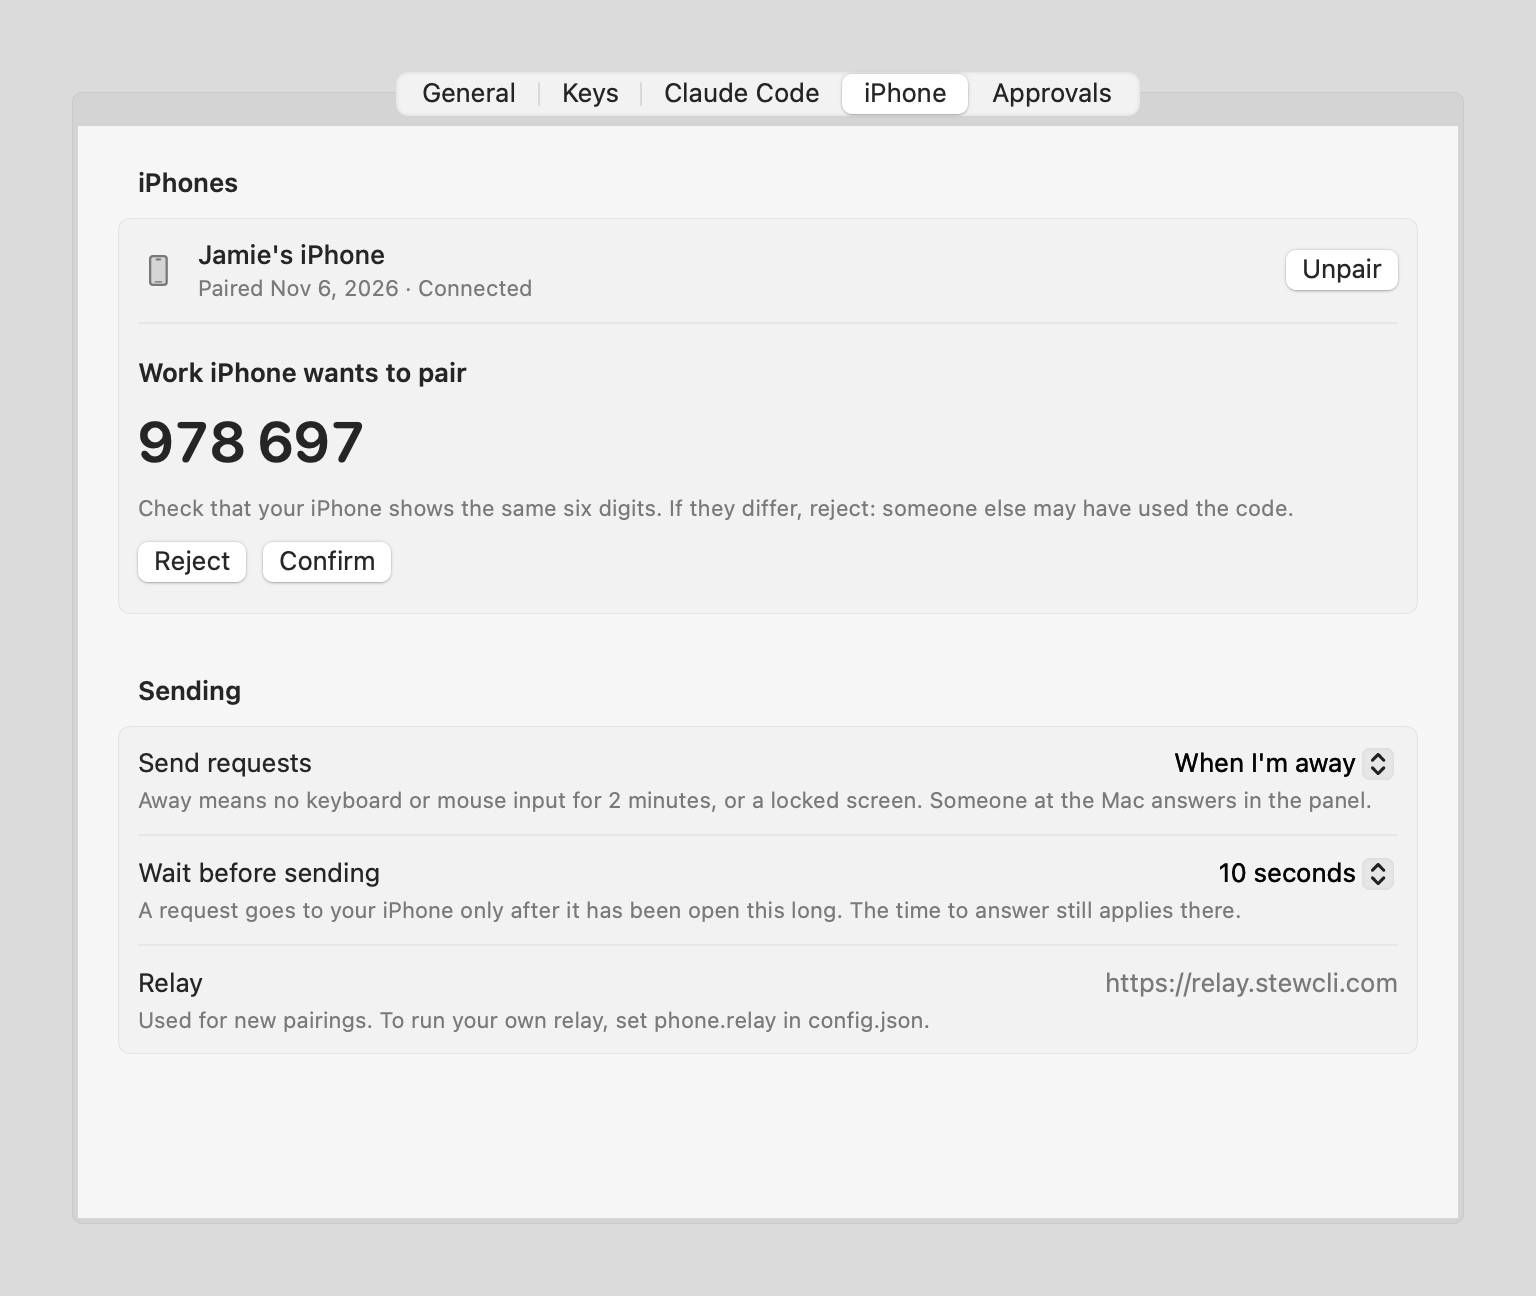
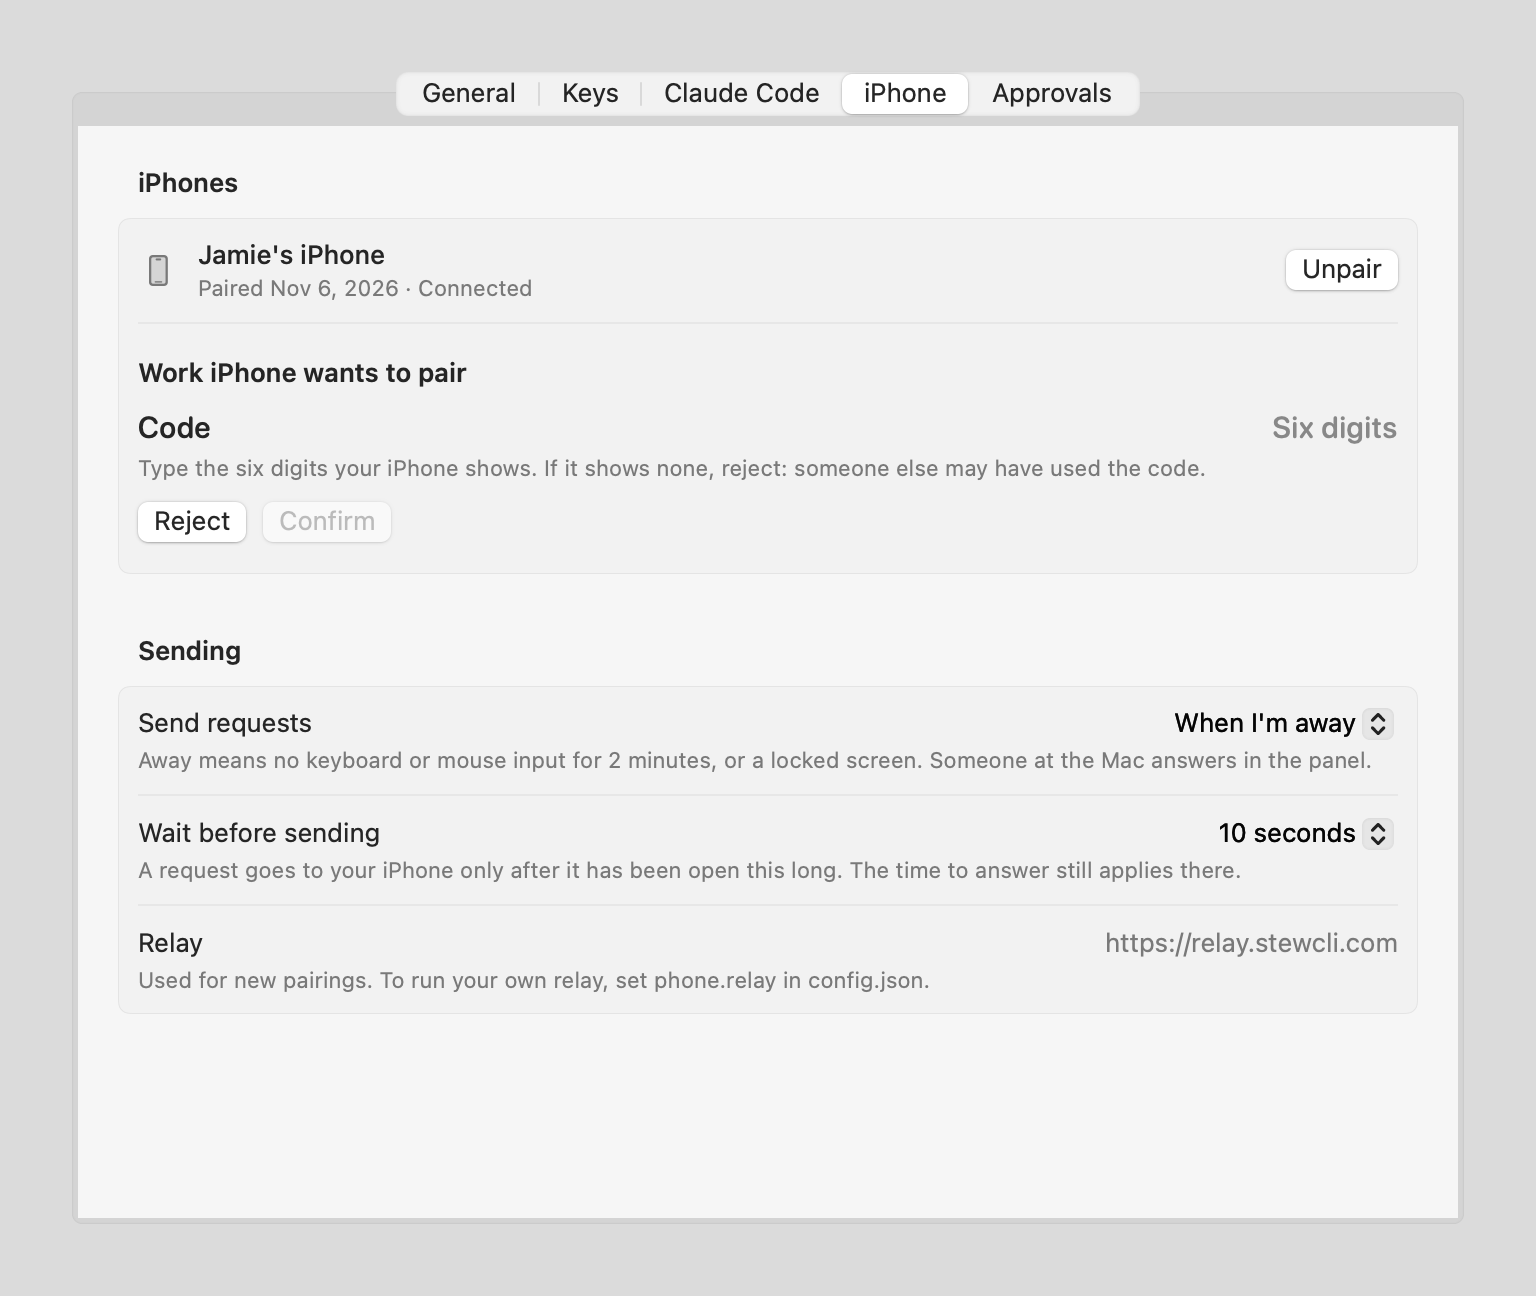
Close the pairing and answer gaps a security review found
A local process that read a copied pairing code could register its own
phone first, and the user could still click Confirm. Now the user types the
digits the phone shows and the Mac never shows them, so a phone that lost
the race has nothing to type. A code works for 10 minutes and is never
shown twice, and a copied code is marked concealed and transient and leaves
the clipboard after a minute.

Answers more than 30 seconds old are refused, so a relay that held one back
cannot apply it after the user moved on. Requests wait while their risk
check runs, and a phone approve during a check is refused. Refused frames
log at most once a minute, so a misbehaving relay cannot fill the log.

Changed region(s): [[0.0938, 0.4938, 0.9062, 0.8025], [0.0938, 0.3086, 0.8438, 0.463], [0.8125, 0.3086, 0.9062, 0.3395]]

diff --git a/Sources/stew/PhoneLink.swift b/Sources/stew/PhoneLink.swift
@@ -38,6 +38,10 @@ final class PhoneLink: ObservableObject {
     static let unlimitedLifetime: TimeInterval = 24 * 3600
     /// A deadline that moved less than this is not worth a push.
     static let deadlineTolerance: TimeInterval = 3
+    /// A pairing code stops working after this. It is a secret on screen and possibly on
+    /// the clipboard, so it should not outlive the moment the user meant to pair.
+    static let codeLifetime: TimeInterval = 600
+    private var lastRefusalLog: [String: Date] = [:]
 
     var paired: [MacPairing] { pairings.filter { $0.state == .paired } }
     var confirming: MacPairing? { pairings.first { $0.state == .confirming } }
@@ -47,8 +51,8 @@ final class PhoneLink: ObservableObject {
         let store = PhoneStore()
         self.store = store
         pairings = store.pairings
-        // A code nobody scanned within a day is abandoned; it should not hold a socket.
-        for pairing in pairings where pairing.state == .waiting && Date().timeIntervalSince(pairing.createdAt) > 24 * 3600 {
+        // A waiting code is no longer on screen after a restart, so nobody should use it.
+        for pairing in pairings where pairing.state == .waiting {
             store.remove(pairing.pairingId)
         }
         pairings = store.pairings
@@ -100,15 +104,12 @@ final class PhoneLink: ObservableObject {
         }
     }
 
-    /// Shows a QR code for a new phone. A code still waiting is shown again rather than
-    /// replaced, so a phone that already scanned it can still register.
+    /// Shows a QR code for a new phone. Every call makes a new secret and drops any code
+    /// still waiting, so a secret is never on screen twice.
     func startPairing() {
         guard let store, let coordinator else { return }
+        cancelPairing()
         pairingError = nil
-        if let waiting = pairings.first(where: { $0.state == .waiting }) {
-            pairingCode = waiting.pairingCode(macKeys: store.identity.publicKeys)
-            return
-        }
         let relay = coordinator.config.phone.relay
         let code = PairingCode.generate(relay: relay, macName: macName, macKeys: store.identity.publicKeys)
         guard let claim = try? RelayClaim(code: code, identity: store.identity), let body = try? LinkJSON.encode(claim) else { return }
@@ -134,12 +135,18 @@ final class PhoneLink: ObservableObject {
         for pairing in pairings where pairing.state == .waiting { forget(pairing.pairingId) }
     }
 
-    func confirm(_ pairingId: String) {
-        guard var pairing = pairings.first(where: { $0.pairingId == pairingId }), pairing.state == .confirming else { return }
+    /// The user types the digits the phone shows. Clicking a button would also confirm a
+    /// phone that never showed digits, such as when another device used the code first.
+    @discardableResult
+    func confirm(_ pairingId: String, digits: String) -> Bool {
+        guard var pairing = pairings.first(where: { $0.pairingId == pairingId }), pairing.state == .confirming,
+              let expected = verificationCode(for: pairing),
+              digits.filter(\.isNumber) == expected.filter(\.isNumber) else { return false }
         pairing.state = .paired
         pairing.pairedAt = Date()
         save(pairing)
         if pairingCode?.pairingId == pairingId { pairingCode = nil }
+        return true
     }
 
     /// Ends a pairing on both sides: the phone hears about it through the relay.
@@ -193,7 +200,11 @@ final class PhoneLink: ObservableObject {
                 }
             }
         } catch {
-            Log.write("phone: refused a message for pairing \(pairingId): \(error)")
+            // At most one line a minute per pairing, so a misbehaving relay cannot fill the log.
+            if Date().timeIntervalSince(lastRefusalLog[pairingId] ?? .distantPast) > 60 {
+                lastRefusalLog[pairingId] = Date()
+                Log.write("phone: refused a message for pairing \(pairingId): \(error)")
+            }
         }
     }
 
@@ -217,10 +228,14 @@ final class PhoneLink: ObservableObject {
         if let deadline = item.deadline, deadline <= Date() {
             return refuse(LinkRefusal.tooLate(macName: macName, deadline: deadline))
         }
+        if Date().timeIntervalSince(answer.answeredAt) > LinkRefusal.answerLifetime {
+            return refuse(LinkRefusal.tooSlow)
+        }
         let note = answer.note.map { $0.trimmingCharacters(in: .whitespacesAndNewlines) }.flatMap { $0.isEmpty ? nil : $0 }
         switch (answer.choice, item.request.prompt) {
         case (.approve, .permission):
             guard !item.isHardDeny else { return refuse(LinkRefusal.macOnly) }
+            if case .checking = item.risk { return refuse(LinkRefusal.riskChecking) }
             answeredBy[item.id] = pairingId
             coordinator.respond(item, StewResponse(status: .approved, note: note, risk: item.risk.assessment))
             return LinkResult(requestId: requestId, accepted: true, message: "Approved on \(macName).")
@@ -325,6 +340,11 @@ final class PhoneLink: ObservableObject {
     private func tick() {
         guard let coordinator else { return }
         let now = Date()
+        if let code = pairingCode, let waiting = pairings.first(where: { $0.pairingId == code.pairingId && $0.state == .waiting }),
+           now.timeIntervalSince(waiting.createdAt) > Self.codeLifetime {
+            cancelPairing()
+            pairingError = "The pairing code expired after 10 minutes. Pair again for a new one."
+        }
         recentlyResolved = recentlyResolved.filter { now.timeIntervalSince($0.value.at) < Self.recentLifetime }
         let liveIDs = Set(coordinator.items.map(\.id))
         for (itemID, entry) in pushed where !liveIDs.contains(itemID) {
@@ -336,6 +356,9 @@ final class PhoneLink: ObservableObject {
         guard !targets.isEmpty else { return }
         var presence: MacPresence?
         for item in coordinator.items where !item.isNeeds {
+            // The phone should see the risk verdict, and a hard deny must never be offered
+            // as approvable, so a request waits while its check runs.
+            if case .checking = item.risk { continue }
             if var entry = pushed[item.id] {
                 let fresh = linkRequest(for: item, previous: entry.sent)
                 guard Self.needsUpdate(entry.sent, fresh) else { continue }
@@ -382,8 +405,7 @@ final class PhoneLink: ObservableObject {
             return confirming.flatMap(verificationCode(for:)) ?? "none"
         case "confirm":
             guard let pairing = confirming else { return "nothing to confirm" }
-            confirm(pairing.pairingId)
-            return "confirmed"
+            return confirm(pairing.pairingId, digits: words.dropFirst(2).joined()) ? "confirmed" : "wrong digits"
         case "unpair":
             for pairing in pairings { unpair(pairing.pairingId) }
             return "unpaired"

diff --git a/Sources/stew/PhoneSettings.swift b/Sources/stew/PhoneSettings.swift
@@ -24,7 +24,7 @@ struct PhoneSettingsTab: View {
                     PairedPhoneRow(pairing: pairing, status: link.statuses[pairing.pairingId]) { unpairing = pairing }
                 }
                 if let confirming = link.confirming {
-                    ConfirmPairing(pairing: confirming, code: link.verificationCode(for: confirming) ?? "", link: link)
+                    ConfirmPairing(pairing: confirming, link: link)
                 } else if let code = link.pairingCode {
                     PairingCodeView(code: code) { link.cancelPairing() }
                 } else {
@@ -130,18 +130,31 @@ struct PairingCodeView: View {
                 Text("Scan with the stew app").font(.system(size: 13, weight: .semibold))
                 Text("On your iPhone, open stew, tap Pair a Mac and point the camera at this code.")
                     .fixedSize(horizontal: false, vertical: true)
-                SettingRow(hint: copied ? "Copied. Paste it in the stew app on your iPhone." : "Universal Clipboard brings it to your iPhone, where you can paste it instead of scanning.") {
-                    Button("Copy code") {
-                        NSPasteboard.general.clearContents()
-                        NSPasteboard.general.setString(code.text, forType: .string)
-                        copied = true
-                    }
+                SettingRow(hint: copied ? "Copied for 1 minute. Paste it in the stew app on your iPhone." : "Universal Clipboard brings it to your iPhone, where you can paste it instead of scanning. The code works for 10 minutes.") {
+                    Button("Copy code") { copy() }
                 }
                 Button("Cancel", action: onCancel)
             }
             .font(.system(size: 12))
         }
         .padding(.vertical, 6)
+    }
+
+    /// Marked concealed and transient, so clipboard managers skip it, and cleared after a
+    /// minute: the code holds the pairing secret.
+    private func copy() {
+        let pasteboard = NSPasteboard.general
+        pasteboard.clearContents()
+        let item = NSPasteboardItem()
+        item.setString(code.text, forType: .string)
+        item.setString("", forType: NSPasteboard.PasteboardType("org.nspasteboard.ConcealedType"))
+        item.setString("", forType: NSPasteboard.PasteboardType("org.nspasteboard.TransientType"))
+        pasteboard.writeObjects([item])
+        let written = pasteboard.changeCount
+        copied = true
+        DispatchQueue.main.asyncAfter(deadline: .now() + 60) {
+            if pasteboard.changeCount == written { pasteboard.clearContents() }
+        }
     }
 
     static func qrImage(_ text: String) -> NSImage? {
@@ -154,28 +167,38 @@ struct PairingCodeView: View {
     }
 }
 
-/// A phone has registered with the code: the user checks the digits match, then confirms.
-/// Until then the phone's answers are ignored.
+/// A phone has registered with the code. The user types the digits the phone shows; the
+/// Mac never shows them itself, so they can only come from the phone. Until then the
+/// phone's answers are ignored.
 struct ConfirmPairing: View {
     let pairing: MacPairing
-    let code: String
     @ObservedObject var link: PhoneLink
+    @State private var digits = ""
+    @State private var mismatch = false
 
     var body: some View {
         VStack(alignment: .leading, spacing: 10) {
             Text("\(pairing.phoneName ?? "An iPhone") wants to pair").font(.system(size: 13, weight: .semibold))
-            Text(code)
-                .font(.system(size: 28, weight: .semibold, design: .rounded))
-                .monospacedDigit()
-            Text("Check that your iPhone shows the same six digits. If they differ, reject: someone else may have used the code.")
-                .font(.system(size: 11))
-                .foregroundStyle(.secondary)
-                .fixedSize(horizontal: false, vertical: true)
+            SettingRow(hint: mismatch
+                ? "These digits do not match. Check your iPhone again, or reject if it shows none."
+                : "Type the six digits your iPhone shows. If it shows none, reject: someone else may have used the code.") {
+                TextField("Code", text: $digits, prompt: Text("Six digits"))
+                    .font(.system(size: 15, weight: .medium, design: .rounded))
+                    .monospacedDigit()
+                    .onSubmit(confirm)
+                    .onChange(of: digits) { mismatch = false }
+            }
             HStack {
                 Button("Reject") { link.unpair(pairing.pairingId) }
-                Button("Confirm") { link.confirm(pairing.pairingId) }.keyboardShortcut(.defaultAction)
+                Button("Confirm", action: confirm)
+                    .keyboardShortcut(.defaultAction)
+                    .disabled(digits.filter(\.isNumber).count != 6)
             }
         }
         .padding(.vertical, 6)
+    }
+
+    private func confirm() {
+        mismatch = !link.confirm(pairing.pairingId, digits: digits)
     }
 }

diff --git a/Tests/TestPhone/main.swift b/Tests/TestPhone/main.swift
@@ -16,6 +16,7 @@ stew-test-phone COMMAND [options]
       ACTION is approve, deny, moreTime, option.N or other. Prints the Mac's result.
       --force skips the phone's own checks, to prove the Mac refuses too.
       --twice posts the same envelope again and adds the relay's status for it.
+      --age SECONDS dates the answer that far back, to prove the Mac refuses stale answers.
   unpair --state FILE
       End the pairing from the phone.
   pending --state FILE
@@ -214,7 +215,8 @@ func answer(_ values: [String: String]) throws {
         printJSON(["accepted": false, "refusedOnPhone": true, "message": refusal])
         exit(5)
     }
-    let answer = LinkAnswer(requestId: requestId, choice: choice, note: values["note"], phoneName: state.phoneName)
+    let age = Double(values["age"] ?? "0") ?? 0
+    let answer = LinkAnswer(requestId: requestId, choice: choice, note: values["note"], phoneName: state.phoneName, answeredAt: Date().addingTimeInterval(-age))
     let expires = min(request.deadline ?? .distantFuture, Date().addingTimeInterval(120))
     // A deadline already near still gets a minute, so the Mac can explain that it was late.
     let envelope = try channel.seal(answer, kind: .answer, requestId: requestId, expiresAt: max(expires, Date().addingTimeInterval(60)))

diff --git a/Sources/stew/RelayConnection.swift b/Sources/stew/RelayConnection.swift
@@ -22,6 +22,7 @@ final class RelayConnection: NSObject, URLSessionWebSocketDelegate {
     /// Called on the main queue whenever the socket's status changes.
     var onStatus: ((Status) -> Void)?
     private(set) var status: Status = .connecting
+    private var lastBadFrameLog = Date.distantPast
 
     static let longestBackoff: TimeInterval = 60
     static let pingInterval: TimeInterval = 30
@@ -89,6 +90,9 @@ final class RelayConnection: NSObject, URLSessionWebSocketDelegate {
         do {
             onFrame?(try LinkJSON.decode(RelayFrame.self, from: data))
         } catch {
+            // At most one line a minute, so a misbehaving relay cannot fill the log.
+            guard Date().timeIntervalSince(lastBadFrameLog) > 60 else { return }
+            lastBadFrameLog = Date()
             Log.write("phone: unreadable frame from relay: \(error)")
         }
     }

diff --git a/Sources/StewLink/LinkPresentation.swift b/Sources/StewLink/LinkPresentation.swift
@@ -256,6 +256,11 @@ public enum LinkRefusal {
     }
 
     public static let alreadyAnswered = "You already answered this request."
+    public static let riskChecking = "Your Mac is still checking this command against your auto mode rules. Try again in a few seconds."
+    /// An answer older than this is refused, so a relay that held it back cannot apply it
+    /// after the user has moved on.
+    public static let answerLifetime: TimeInterval = 30
+    public static let tooSlow = "This answer took too long to reach your Mac. Answer again."
     public static let clockNotStarted = "This request waits behind another one on your Mac, so its clock has not started yet."
     public static let noTimeLimit = "This request has no time limit."
 

diff --git a/docs/PHONE.md b/docs/PHONE.md
@@ -8,16 +8,17 @@ When a request stays open while you are away from your Mac, stew sends it to you
 - **The time limit still applies.** The notification shows when the time to answer runs out. An answer that arrives later is refused, and the phone says so. More time on the phone adds the same time as ⌘E on the Mac.
 - **First answer wins.** When the request is answered anywhere (Mac, phone or another phone), times out or is dismissed, the other devices remove their notification.
 - **Hard denies stay on the Mac.** A call auto mode never allows can be approved on the Mac only. The phone shows it and offers Deny and More time, but no Approve.
-- **Approve needs Face ID.** The Approve action asks for Face ID or the passcode first. Deny and More time do not.
+- **Approve needs an unlocked phone.** On a locked phone the Approve action asks for Face ID or the passcode first. On an unlocked phone, and on the Watch while it is unlocked on your wrist, iOS does not ask again. Approve in the app always asks. Deny and More time never ask.
+- **Risk check first.** A request waits while its risk check runs, so the phone sees the verdict and a hard deny never arrives with an Approve.
 - **Questions.** A single question offers its options (up to 4) and "Other…" with a text field. Several questions, or a multi-select question, open the app.
 - **Notifications** (`stew notify`) arrive without actions.
 - **Apple Watch** shows the same actions, without a watch app.
 
 ## Pairing
 
-1. On the Mac: Settings ▸ iPhone ▸ Pair an iPhone. stew shows a QR code. The same code is a `stew://pair?code=…` link that you can copy and paste on the phone instead.
+1. On the Mac: Settings ▸ iPhone ▸ Pair an iPhone. stew shows a QR code. The same code is a `stew://pair?code=…` link that you can copy and paste on the phone instead. The code works for 10 minutes and for one phone; a copied code leaves the clipboard after a minute.
 2. On the iPhone: in the stew app, tap Pair a Mac and scan the code, or paste it.
-3. Both screens show the same six digit code. Check that they match, then click Confirm on the Mac.
+3. The iPhone shows six digits. Type them on the Mac. The Mac never shows them, so they can only come from your phone. If the phone shows none (another device used the code first), reject on the Mac.
 
 ![Settings ▸ iPhone while a code waits to be scanned](images/settings-phone-pairing-light.png)
 
@@ -48,11 +49,11 @@ Tests/phone/run.sh      # a local relay in MOCK_APNS mode, a headless daemon and
 ## Security
 
 - **End to end.** Every message is encrypted with ChaCha20-Poly1305 and signed with the sender's Ed25519 key. The key comes from HKDF-SHA256 over the X25519 shared secret of the two devices, salted with the 32 byte pairing secret from the QR code.
-- **What the relay sees.** The pairing id, the phone's push token, the public keys, and for each message: its kind (request, update, resolved, answer, result, hello, unpair), the sender side (mac or phone), the request id, the message id and the expiry. It never sees the session, the command, the question or the answer.
-- **What the relay cannot do.** It cannot read or forge a request or an answer: it does not have the pairing secret, so it cannot derive the key, and it does not have the private signing keys. A relay that swapped in its own keys during pairing would fail on the encryption, and the six digit codes would differ.
-- **Replays.** Each message has a unique id and an expiry. The receiver refuses expired messages and message ids it has already seen, and the Mac takes only the first answer to a request.
+- **What the relay sees.** The pairing id, the phone's push token, the public keys, and for each message: its kind (request, update, resolved, answer, result, hello, unpair), the sender side (mac or phone), the request id, the message id and the expiry. It never sees the session, the command, the question or the answer. Plaintext is padded to 256 byte blocks, so message sizes do not tell approve from deny. Message order still shows one thing: More time is followed by an update, a final answer by a resolved message.
+- **What the relay cannot do.** It cannot read or forge a request or an answer: it does not have the pairing secret, so it cannot derive the key, and it does not have the private signing keys. A relay that swapped in its own keys during pairing would fail on the encryption, and the six digits would not match. A relay that holds an answer back cannot apply it later: the Mac refuses answers more than 30 seconds old.
+- **Replays.** Each message has a unique id and an expiry. The receiver refuses expired messages and message ids it has already seen, and the Mac takes only the first answer to a request. The Mac keeps seen ids in memory only; request ids are new each run, so an answer from before a restart finds nothing to answer.
 - **Keys.** On the Mac, the private keys and pairing records are in the login keychain (service `nl.koode.stew.link`). On the iPhone they are in the app group keychain shared by the app and its notification extension.
-- **No self-approval.** Pairing needs the code shown in the settings window and a click on Confirm with matching digits, so a process on the Mac cannot pair a phone of its own.
+- **No self-approval.** A phone counts only after the user types its digits on the Mac. A process on the Mac that took a copied code and registered first gets no further: the real phone shows no digits, so there is nothing to type. Pairing through the socket exists only in the headless test daemon.
 
 ## Wire protocol
 
